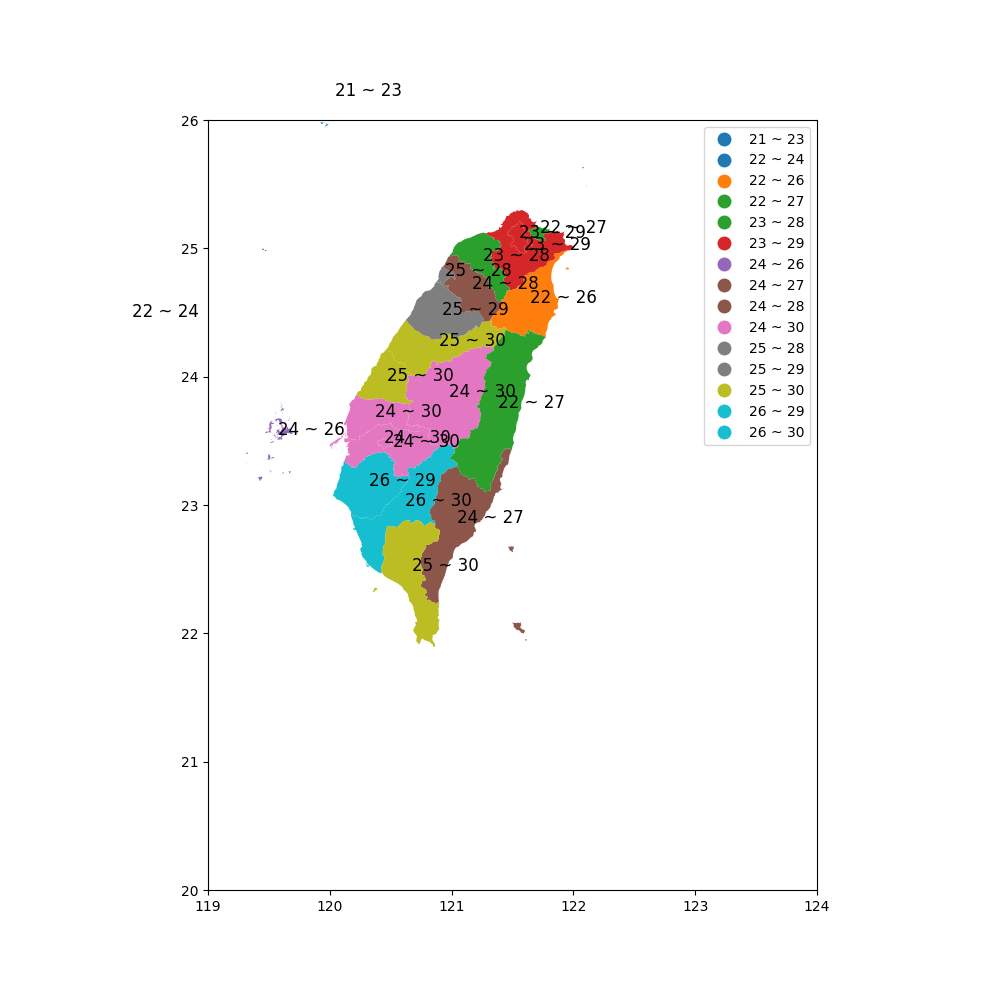
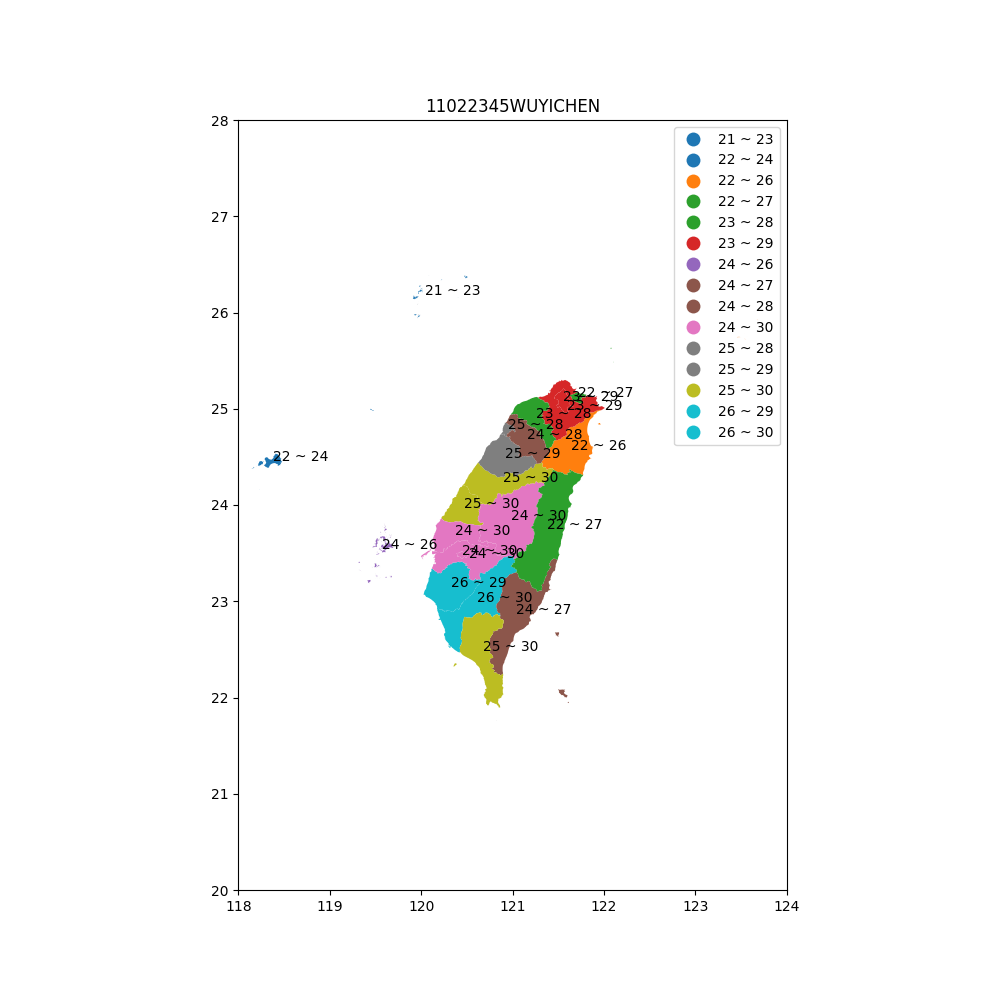
end!

diff --git a/20240402/11022345.py b/20240402/11022345.py
@@ -47,6 +47,7 @@ County_data['Temperature'] = County_data['COUNTYNAME'].map(temp_dict)
 #m
 #m.save('map.html')
 
+
 # 讀取你的地理資訊
 gdf = gpd.GeoDataFrame(County_data)
 
@@ -57,13 +58,17 @@ fig, ax = plt.subplots(1, 1, figsize=(10, 10))
 gdf.plot(column='Temperature', legend=True, ax=ax)
 
 # 設定 x 軸和 y 軸的範圍
-ax.set_xlim(119, 124)
-ax.set_ylim(20, 26)
+ax.set_xlim(118, 124)
+ax.set_ylim(20, 28 )
 
 # 在每個區域的中心點添加文字
 for x, y, label in zip(gdf.geometry.centroid.x, gdf.geometry.centroid.y, gdf['Temperature']):
-    ax.text(x, y, label, fontsize=12)
+    ax.text(x, y, label, fontsize=10)
 
+
+
+#標題為學號11022345姓名吳奕辰
+plt.title('11022345WUYICHEN')
 # 顯示地圖
 plt.show()
 
